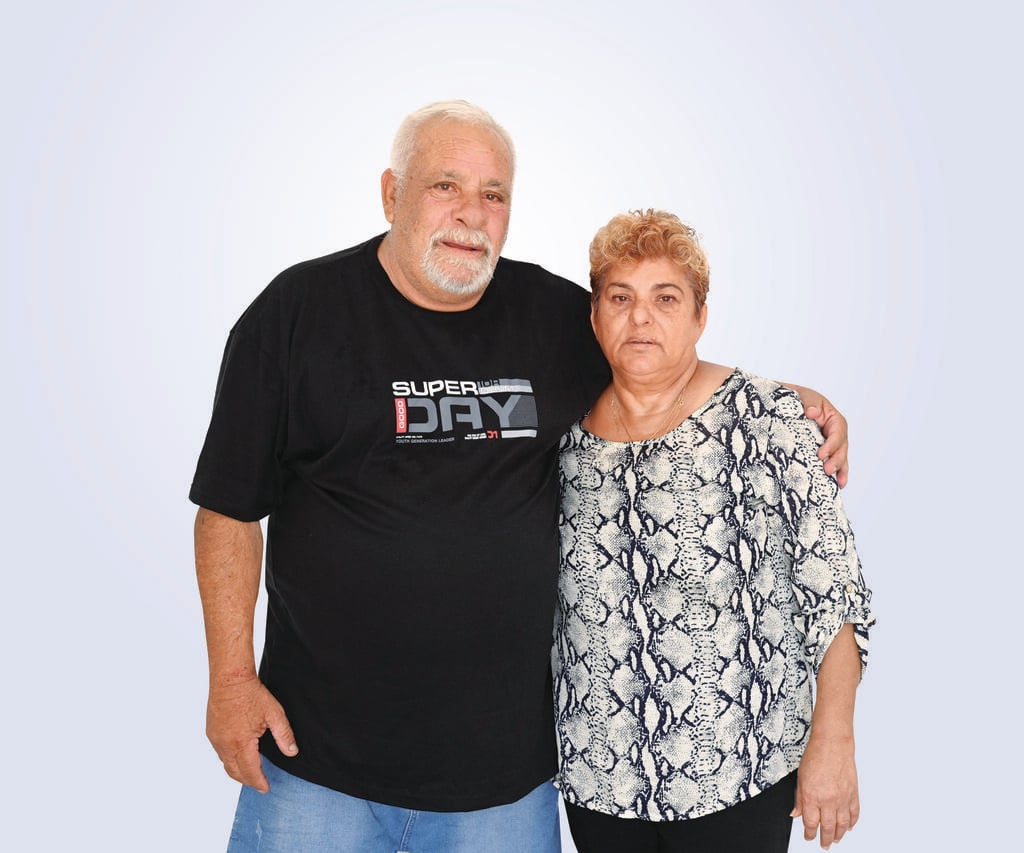
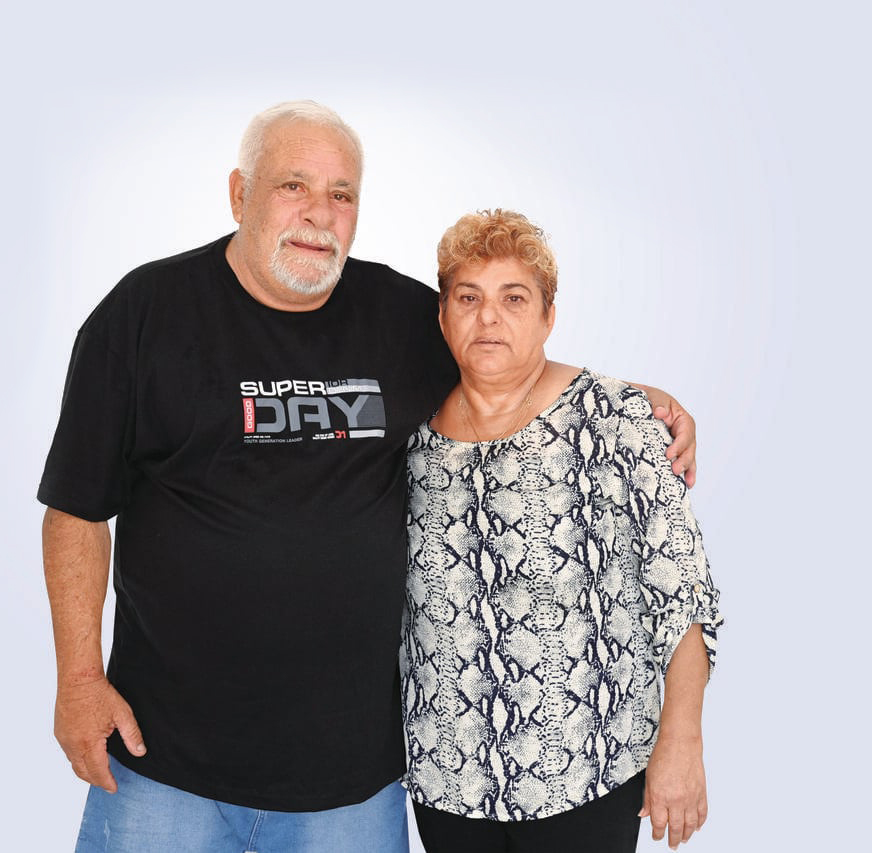
Final project in process

diff --git a/Final_project — копия/css/style.css b/Final_project — копия/css/style.css
@@ -26,7 +26,7 @@
         display: block;
         font-family: 'Agbalumo', sans-serif;
         color: #5787c5;
-        font-size: 2vw; 
+        font-size:calc(14px + 1.5vw);
         white-space: nowrap;
         text-decoration: none;
         border: dotted 3px #3f3e3e;
@@ -49,6 +49,7 @@
       
     .dropdown {
         width: 100vw;
+        max-height: 12vw;
         background-color: #000000;
         position: fixed;
         display: inline-block;
@@ -58,8 +59,8 @@
         background-color: #000000;
         color: #5787c5;
         font-family: 'Agbalumo', sans-serif;
-        padding: 16px 0px 0px 25px;
-        font-size: 8vw;
+        padding: 0.5vw 0px 5vw 10vw;
+        font-size: 6vw;
         cursor: pointer;
     }
       
@@ -99,9 +100,6 @@
 
 
 
-
-
-
 .main {
     width: 100vw;
     min-height: 100vh;
@@ -111,14 +109,14 @@
     background-repeat: no-repeat;
     background-position: 100% 0%;
 }
-main .container{
-    margin-top: 5%;
+/* main .container{
+    margin-top: 5%; */
     /* height: 100vh; */
-}
+/* } */
 
 .main .main_text {
     text-align: center;
-    margin-top: 180px;
+    margin-top: 250px;
     margin-bottom: 50px;
     font-size: 3rem;
 }
@@ -134,48 +132,95 @@ main .container{
     font-size: 4vw;
 }
 
+
+@media all and (max-width: 948px) {
+    .main {
+        min-height: calc(100vw);
+        background-image: url("../img/main_background_min.jpg");
+        background-position: 0% 0%;
+        background-size: 100vw;
+        padding-top: 70px;
+    }
+
+    .main .main_text {
+        text-align: center;
+        margin-top: 20vw;
+        margin-left: 10vw;
+        font-size: 3rem;
+    }
+}
+
+
 #bio{
-    padding: 0;
+    /* padding: 0; */
+    height: 100vh; 
     background-color: #dfe3ef ;
     padding-top: 5%;
+    background-image: url(../img/bio_background.jpg);
+    background-repeat: no-repeat;
+    background-position: 0% 100%;
+    background-size: 100vh;
 }
-
 
 #bio .container{
-    margin: 0;
+    /* margin: 0; */
 }
 
+#bio .content {
+    /* display: flex;
+    justify-content: space-around; */
+
+}
+
+
+#bio h2 {
+    /* text-align: center; */
+    font-size: 3vw;
+    margin-left: 3vw;
+}
+
+/* 
 .row-bio{
-    margin-bottom: 0; /*added because it did a white space*/
+    margin-bottom: 0; 
     width: 100vw;
     display: flex;
     flex-wrap: wrap;
     justify-content: space-evenly;
     
 }
+ */
 
 #bio img{
-    /* min-height: 853px; */
-    width: 85vw; /*related to the image siza*/
-    margin: 0;
+    /* width: 30vw; */
+    /* height: 100vw; */
+    /* margin: 0;
     background-repeat: no-repeat;
-    background-size: contain; /* new*/
+    background-size: contain;  */
     
 }
 
-.col{
+/* .col{
     font-size: 2vw;
     width: 50vw;
     padding: 2%;
-}
-.col h2 {
-    text-align: center;
+} */
+
+#bio ul {
+    width: 40vw;
 }
 
-#bio ul li h2 {
+#bio ul li {
     list-style-type: circle;
     padding-top: 30px;
-    font-size: 2.5vw;
+    font-size: 2vw;
+}
+
+
+@media all and (max-width: 1142px) {
+    #bio{
+        background-image: none;
+    }
+    
 }
 
 

diff --git a/Final_project — копия/index.html b/Final_project — копия/index.html
@@ -55,7 +55,7 @@
                     <div class="col-5 main_text">
                         <h1>Rachel Edri and her cookies</h1>
                         <h2>Hero of Israel</h2>
-                    </div>   
+                    </div>
                 </div>
             </div>
         </div>
@@ -64,17 +64,17 @@
 
     <div id="bio">
         <div class="container">
-            <div class="row-bio">
-                <div class="col">
+            <div class="row">
+                <div class="content col-5 offset-md-6">   
                     <h2>Biography</h2>
                     <ul> 
-                      <li> Rachel was born in 1959 in Ofakim. She grew up in a family of 14 children. </li>
-                      <li>In the army she served in Squadron 102 at the Hatzeri base as a technical clerk.</li>
-                      <li>In 1982 she married David Adri, a truck driver and operator.</li>
-                      <li>Adri is a mother of three: Hanit, Avitar and Tal (two of her sons are policemen) and a grandmother of three grandchildren.</li>
-                    </ul>
+                        <li> Rachel was born in 1959 in Ofakim. She grew up in a family of 14 children. </li>
+                        <li>In the army she served in Squadron 102 at the Hatzeri base as a technical clerk.</li>
+                        <li>In 1982 she married David Adri, a truck driver and operator.</li>
+                        <li>Adri is a mother of three: Hanit, Avitar and Tal (two of her sons are policemen) and a grandmother of three grandchildren.</li>
+                      </ul>
+                      <!-- <img src="../Final_project — копия/img/bio_background.jpg" alt="picture of Rachel and David Edri" "> -->
                 </div>
-                <img src="https://ynet-pic1.yit.co.il/picserver5/crop_images/2023/10/16/HkWbrkS5Wp/HkWbrkS5Wp_0_0_3000_2499_0_x-large.jpg" alt="picture of Rachel and David Edri">
             </div>
         </div>
     </div>
@@ -101,7 +101,7 @@
 
 
     <div class="line1"></div>
-
+<!-- 
 
     <div id="glory">
         <div class="container">
@@ -156,7 +156,7 @@
                 
             </div>
         </div>
-    </div>
+    </div> -->
 
     <!-- another beautiful divide line -->
     <div class="line2"></div>
